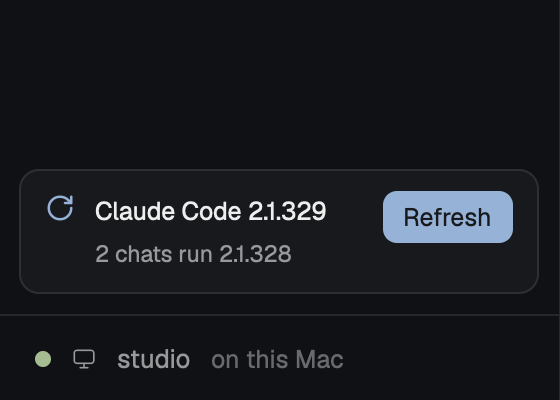
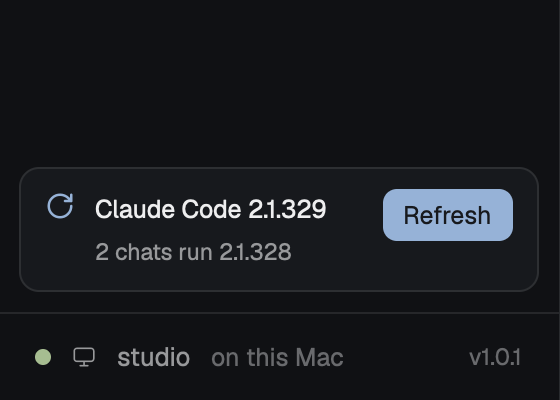
docs: Refresh row screenshots with the version in the footer
Claude-Session: https://claude.ai/code/session_01Nb4n9WjEbwkRGAFWJ3kouV

diff --git a/README.md b/README.md
@@ -227,8 +227,8 @@ installed, a **Refresh** row appears at the bottom of the sidebar, saying which 
 how many chats run an older one. Clicking Refresh restarts the idle chats on it now and the rest as
 their turns end, and the row then says what it did. The row shows only while a chat is behind.
 
-<img src="docs/refresh-row.png" width="280" alt="The bottom of the channels sidebar: a row with a circular arrow, Claude Code 2.1.329, 2 chats run 2.1.328, and a Refresh button, above the studio, on this Mac footer">
-<img src="docs/refresh-done.png" width="280" alt="The same row after a click: Refreshed. Restarted #general on Claude Code 2.1.329. #research restarts when its turn ends.">
+<img src="docs/refresh-row.png" width="280" alt="The bottom of the channels sidebar: a row with a circular arrow, Claude Code 2.1.329, 2 chats run 2.1.328, and a Refresh button, above the studio, on this Mac footer with v1.0.1 at its right">
+<img src="docs/refresh-done.png" width="280" alt="The same row after a click: Refreshed. Restarted #general and #design on Claude Code 2.1.329.">
 
 A restart never interrupts a turn or loses a draft. A chat is restarted only while Claude Code
 reports it idle, herdr-core reports its terminal not working, and its prompt is empty; then its
